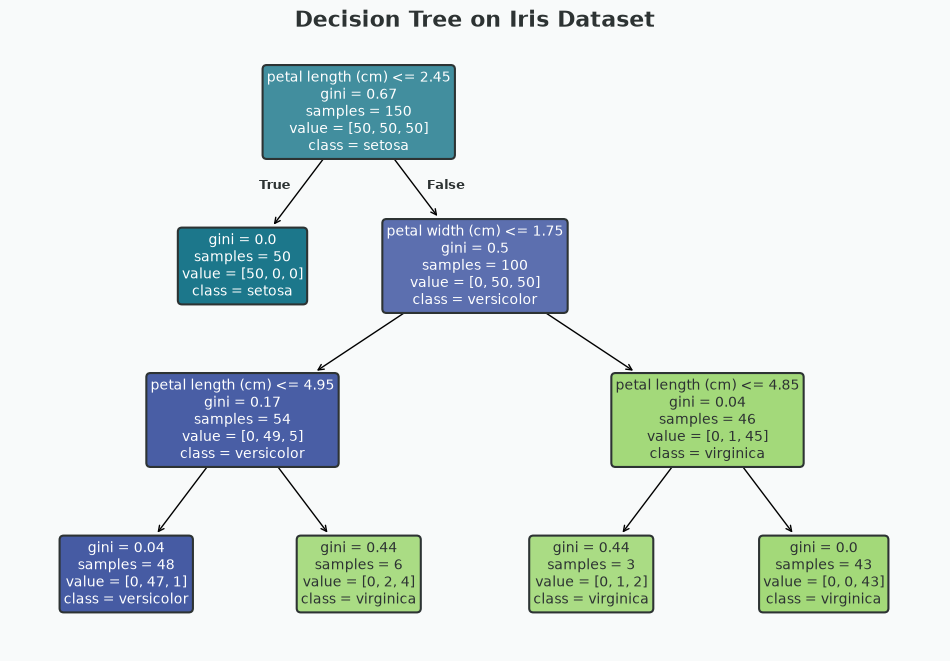
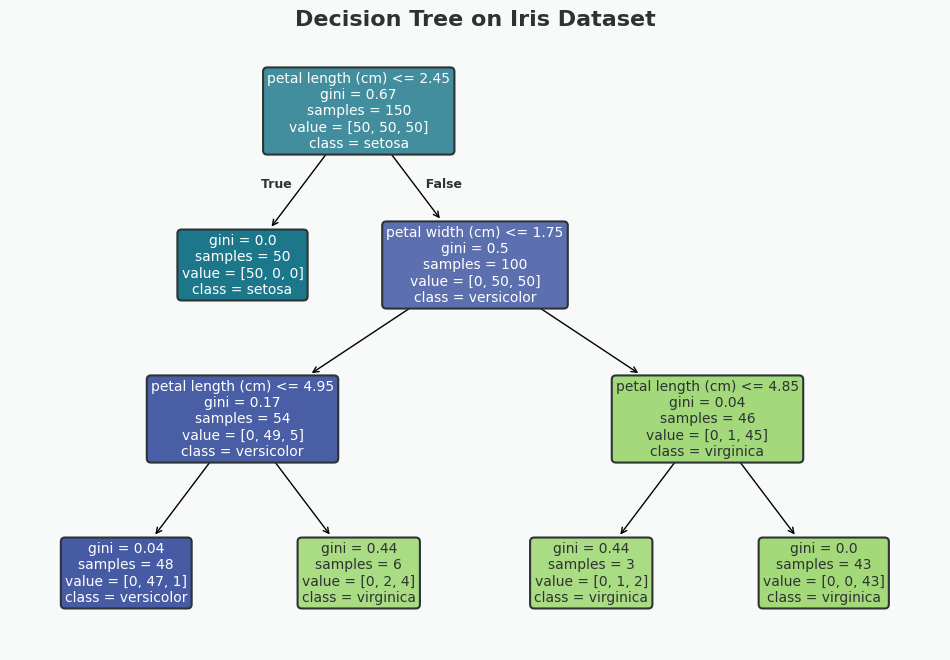
using own plot config

diff --git a/CCPlots/implementation/DecisionTreeExample.py b/CCPlots/implementation/DecisionTreeExample.py
@@ -1,26 +1,27 @@
+"""
+Decision tree (max depth 3) trained on the Iris dataset with node boxes
+recoloured using the Bitroot palette. Impure nodes are lightened
+proportionally to their impurity.
+
+Figures
+-------
+- ``decision_tree_iris.png`` / ``_NL.png`` — tree plot
+
+Configuration
+-------------
+``CCPlots/plot_configs/decision_tree.json``
+"""
 import numpy as np
-import matplotlib.pyplot as plt
 from matplotlib.colors import to_rgba
 from sklearn import tree
 from sklearn.datasets import load_iris
 from sklearn.tree import DecisionTreeClassifier
 
 from CCPlots.PlotExample import PlotExample
-from CCPlots.config import BITROOT_PALETTE, apply_bitroot_style, darken_color, output_path
-
-
-TEXT_BY_LOCALE = {
-    "en": {
-        "title": "Decision Tree on Iris Dataset",
-    },
-    "nl": {
-        "title": "Beslissingsboom op Iris-dataset",
-    },
-}
+from CCPlots.config import BITROOT_PALETTE, darken_color
 
 
 def _blend_toward(color: tuple, target: tuple, amount: float) -> tuple:
-    """Linearly blend color toward target by amount (0 = full color, 1 = full target)."""
     return tuple(c + amount * (t - c) for c, t in zip(color, target))
 
 
@@ -68,8 +69,6 @@ def _recolor_tree(ax, clf):
             purity = float(dist[majority_class]) / total
             base_rgba = IRIS_BG[majority_class]
             text_color = IRIS_TEXT[majority_class]
-            # Lighten impure nodes by blending toward white (for dark bg)
-            # or toward the surface background (for light bg on green)
             blend_target = (1.0, 1.0, 1.0, 1.0) if majority_class != 2 else to_rgba(BITROOT_PALETTE['background'])
             face_color = _blend_toward(base_rgba, blend_target, (1.0 - purity) * 0.25)
 
@@ -88,7 +87,9 @@ def _recolor_tree(ax, clf):
         t.set_fontweight('bold')
 
 
-class DecisionTreeExample(PlotExample):
+class DecisionTree(PlotExample):
+
+    CONFIG_KEY = "decision_tree"
 
     def main(self):
         iris = load_iris()
@@ -97,11 +98,8 @@ class DecisionTreeExample(PlotExample):
         clf = DecisionTreeClassifier(max_depth=3, random_state=42)
         clf = clf.fit(X, y)
 
-        for locale, labels in (("en", TEXT_BY_LOCALE["en"]), ("nl", TEXT_BY_LOCALE["nl"])):
-            fname = f"decision_tree_iris{'_NL' if locale == 'nl' else ''}.png"
-
-            fig, ax = plt.subplots(figsize=(12, 8), facecolor=BITROOT_PALETTE['background'])
-            ax.set_facecolor(BITROOT_PALETTE['background'])
+        for _locale, labels, suffix in self.iter_locales():
+            fig, ax = self.create_figure()
 
             tree.plot_tree(clf, filled=False, feature_names=iris.feature_names,
                            class_names=iris.target_names, ax=ax,
@@ -112,7 +110,6 @@ class DecisionTreeExample(PlotExample):
 
             ax.set_title(labels["title"], color=BITROOT_PALETTE['text'],
                          fontsize=14, fontweight='bold')
-            apply_bitroot_style(ax)
+            self.apply_style(ax)
 
-            fig.savefig(output_path(fname), bbox_inches='tight', pad_inches=0.1)
-            plt.close(fig)
+            self.save_figure(fig, "default", suffix=suffix)
